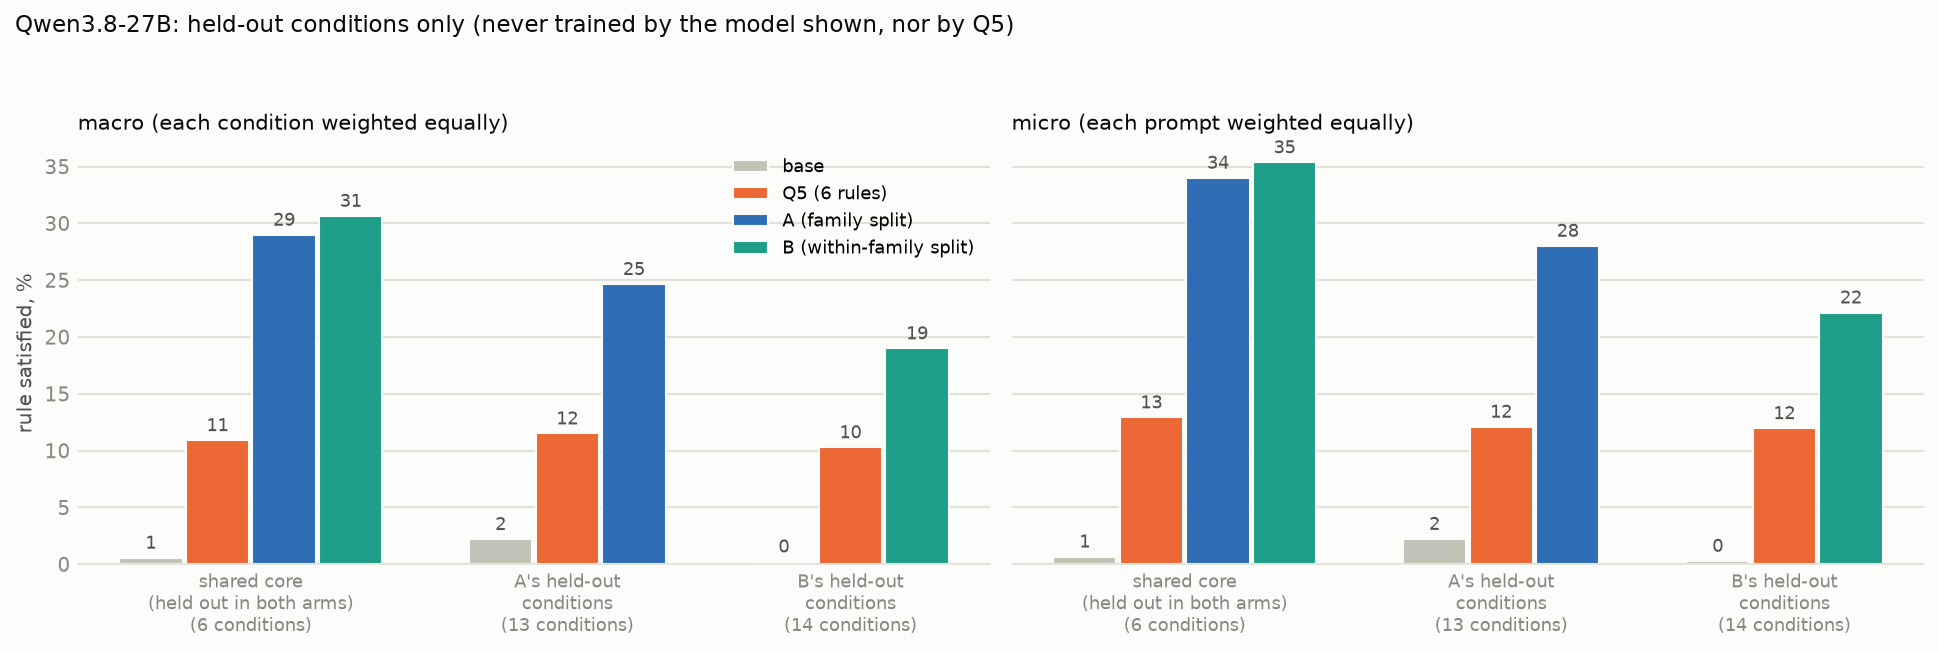
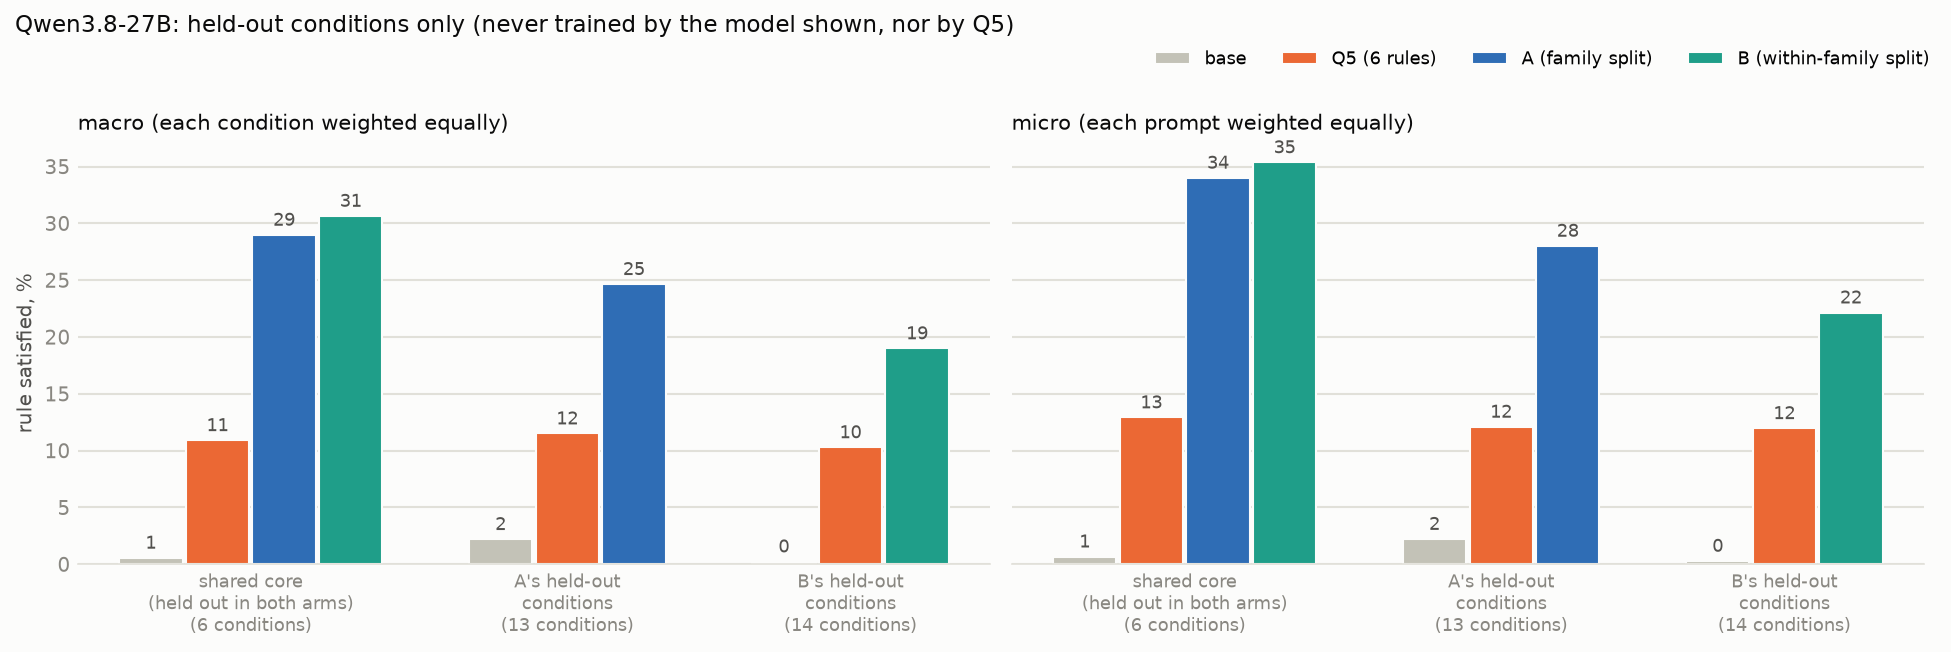
Many-rule SFT replicated on gpt-oss-20b: held-out transfer ~2x Q5; R1 stage row count fix
Claude-Session: https://claude.ai/code/session_01UwHGn3QEFZsPFdtjJMS92Q

diff --git a/scripts/report_many_rules.py b/scripts/report_many_rules.py
@@ -17,13 +17,20 @@ C = {"base": "#c3c2b7", "Q5": "#eb6834", "A": "#2f6db5", "B": "#1f9e89"}
 plt.rcParams.update({"figure.facecolor": SURF, "axes.facecolor": SURF, "axes.edgecolor": GRID, "axes.labelcolor": INK2, "xtick.color": MUTED, "ytick.color": MUTED,
                      "font.size": 9.5, "axes.spines.top": False, "axes.spines.right": False, "savefig.dpi": 150, "savefig.facecolor": SURF})
 def style(ax, axis="y"): (ax.yaxis if axis == "y" else ax.xaxis).grid(True, color=GRID, lw=1); ax.set_axisbelow(True); ax.tick_params(length=0)
+SET = next((x.split("=", 1)[1] for x in sys.argv[1:] if x.startswith("--set=")), "qwen38")
+_G, _GM, _RW, _R1 = REPO / "results/gptoss", REPO / "results/gptoss_many", REPO / "results/redwood_eval", REPO / "results/r1llama"
 Q, R = REPO / "results/qwen38", REPO / "results/qwen38_many"
-EVAL = {"base": Q / "eval/base", "Q5": Q / "eval/Q5", "A": R / "eval/A", "B": R / "eval/B"}
-RWD = {"base": Q / "redwood/base", "Q5": Q / "redwood/Q5", "A": R / "redwood/A", "B": R / "redwood/B"}
+EVAL, RWD, FIG, TITLE = {
+    "qwen38": ({"base": Q / "eval/base", "Q5": Q / "eval/Q5", "A": R / "eval/A", "B": R / "eval/B"},
+               {"base": Q / "redwood/base", "Q5": Q / "redwood/Q5", "A": R / "redwood/A", "B": R / "redwood/B"}, "many", "Qwen3.8-27B"),
+    "gptoss": ({"base": _G / "eval/base", "Q5": _G / "eval/Q5-final", "A": _GM / "eval/A", "B": _GM / "eval/B"},
+               {"base": _RW / "base", "Q5": _RW / "Q5-final", "A": _GM / "redwood/A", "B": _GM / "redwood/B"}, "many_gptoss", "gpt-oss-20b"),
+    "r1": ({m: _R1 / f"eval/{m}" for m in ("base", "Q5", "A", "B")}, {m: _R1 / f"redwood/{m}" for m in ("base", "Q5", "A", "B")}, "many_r1", "R1-Distill-Llama-8B"),
+}[SET]
 MODELS = [m for m in EVAL if (EVAL[m] / "rollouts.jsonl").exists()]
 PREFIX = {"reasonif_multi": "rif", "cotcontrol_multi": "cc", "ifbench": "ifb"}
 Q5_TRAINED = {f"rif:{c}" for c in ("capital", "end_checker", "end_of_sentence", "no_comma", "number_words", "reasoning_language")} | {"cc:end_of_sentence"}  # + its CoTControl twin
-BASE_HIGH = {"rw:section_headers", "ifb:stop_words", "ifb:conjunctions"}
+BASE_HIGH = None  # set below: conditions base already passes on >= 40 % of prompts (no room to show transfer)
 
 
 def scores(m):
@@ -47,7 +54,8 @@ def scores(m):
 S = {m: scores(m) for m in MODELS}
 rate = lambda m, c: 100 * sum(S[m][c]) / len(S[m][c]) if S[m].get(c) else None
 TRAIN = {arm: set(P.split(arm)[0]) for arm in "AB"}; TEST = {arm: set(P.split(arm)[1]) for arm in "AB"}
-EVALUATED = sorted(set.intersection(*[set(S[m]) for m in MODELS]))
+EVALUATED = sorted(c for c in set.intersection(*[set(S[m]) for m in MODELS]) if c in P.CONDS)
+BASE_HIGH = {c for c in EVALUATED if rate("base", c) >= 40}
 # held-out sets used for headline numbers: evaluated, not trained by Q5 either, base not already high
 HELD = {arm: [c for c in EVALUATED if c in TEST[arm] and c not in Q5_TRAINED and c not in BASE_HIGH] for arm in "AB"}
 CORE = [c for c in EVALUATED if c in P.SHARED_CORE]
@@ -77,9 +85,9 @@ if __name__ == "__main__":
             ticks.append((x + (len(ms) - 1) * 0.4, f"{name}\n({len(conds)} conditions)")); x += len(ms) * 0.8 + 1.0
         ax.set_xticks([t for t, _ in ticks]); ax.set_xticklabels([l for _, l in ticks], fontsize=8.5); style(ax); ax.spines["left"].set_visible(False)
         ax.set_title(ttl, loc="left", fontsize=10, color=INK)
-    axes[0].set_ylabel("rule satisfied, %"); axes[0].legend(frameon=False, fontsize=8.5, loc="upper right")
-    fig.suptitle("Qwen3.8-27B: held-out conditions only (never trained by the model shown, nor by Q5)", x=0.01, ha="left", fontsize=11, color=INK)
-    fig.tight_layout(rect=(0, 0, 1, 0.93)); fig.savefig(REPO / "figures/many_headline.png", bbox_inches="tight"); plt.close(fig)
+    axes[0].set_ylabel("rule satisfied, %"); h, l = axes[0].get_legend_handles_labels(); fig.legend(h, l, frameon=False, fontsize=8.5, loc="upper right", ncol=4, bbox_to_anchor=(1.0, 0.95))
+    fig.suptitle(f"{TITLE}: held-out conditions only (never trained by the model shown, nor by Q5)", x=0.01, ha="left", fontsize=11, color=INK)
+    fig.tight_layout(rect=(0, 0, 1, 0.93)); fig.savefig(REPO / f"figures/{FIG}_headline.png", bbox_inches="tight"); plt.close(fig)
     # Fig 3: A against B per condition, coloured by who trained it
     fig, ax = plt.subplots(figsize=(7.2, 6.4))
     kinds = {"trained by A only": ("#2f6db5", "o"), "trained by B only": ("#1f9e89", "s"), "trained by both": ("#52514e", "D"), "held out in both": ("#eb6834", "^")}
@@ -93,7 +101,7 @@ if __name__ == "__main__":
     ax.plot([0, 100], [0, 100], color=GRID, lw=1, zorder=1); ax.set_xlim(-3, 103); ax.set_ylim(-3, 103); ax.set_aspect("equal")
     ax.set_xlabel("arm A, % of prompts"); ax.set_ylabel("arm B, % of prompts"); style(ax); style(ax, "x"); ax.legend(frameon=False, fontsize=8.5, loc="upper left")
     ax.set_title("Each condition: A against B. Off-diagonal points are\nwhere training on the rule made a difference", loc="left", fontsize=10, color=INK)
-    fig.tight_layout(); fig.savefig(REPO / "figures/many_a_vs_b.png", bbox_inches="tight"); plt.close(fig)
+    fig.tight_layout(); fig.savefig(REPO / f"figures/{FIG}_a_vs_b.png", bbox_inches="tight"); plt.close(fig)
     # Fig 4: accuracy and length on Redwood's tasks
     acc, words = {}, {}
     for m in MODELS:
@@ -103,7 +111,7 @@ if __name__ == "__main__":
         ax.bar(range(len(MODELS)), [d[m] for m in MODELS], color=[C[m] for m in MODELS], edgecolor=SURF, width=0.6)
         for i, m in enumerate(MODELS): ax.text(i, d[m] * 1.01 + 0.5, fmt.format(d[m]), ha="center", fontsize=8.5, color=INK2)
         ax.set_xticks(range(len(MODELS))); ax.set_xticklabels([NAME[m] for m in MODELS], fontsize=8.5); style(ax); ax.spines["left"].set_visible(False); ax.set_title(ttl, loc="left", fontsize=10, color=INK)
-    fig.tight_layout(); fig.savefig(REPO / "figures/many_accuracy_length.png", bbox_inches="tight"); plt.close(fig)
+    fig.tight_layout(); fig.savefig(REPO / f"figures/{FIG}_accuracy_length.png", bbox_inches="tight"); plt.close(fig)
     # Fig 2: every evaluated condition, dot plot, grouped by family
     fam_order = ["case", "bans", "inclusion", "position", "layout", "structure", "style", "statistics", "length", "language"]
     conds = sorted(EVALUATED, key=lambda c: (fam_order.index(P.CONDS[c].family), P.CONDS[c].op, c))
@@ -116,4 +124,4 @@ if __name__ == "__main__":
     ax.set_yticks(range(len(conds))); ax.set_yticklabels(lab, fontsize=7.5); ax.invert_yaxis(); ax.set_xlim(-3, 103); style(ax, "x")
     ax.set_xlabel("rule satisfied, % of prompts"); ax.legend(frameon=False, fontsize=8.5, loc="lower right", ncol=4)
     ax.set_title("Every condition; trailing letters mark which arm trained it (A, B, or · for held out)", loc="left", fontsize=10, color=INK)
-    fig.tight_layout(); fig.savefig(REPO / "figures/many_per_condition.png", bbox_inches="tight"); plt.close(fig)
+    fig.tight_layout(); fig.savefig(REPO / f"figures/{FIG}_per_condition.png", bbox_inches="tight"); plt.close(fig)

diff --git a/MANY_RULES_FINDINGS.md b/MANY_RULES_FINDINGS.md
@@ -1,4 +1,4 @@
-# Many-rule SFT on Qwen3.8-27B: findings
+# Many-rule SFT: findings (Qwen3.8-27B, gpt-oss-20b)
 
 *2026-10-01. Plan and design: `MANY_RULES_PLAN.md`. Base Qwen3.8-27B, Q5 (6 rules, 5 per example), and two new arms
 trained on about 32 rules with 7 per example:*
@@ -91,10 +91,50 @@ accuracy lowest, but I have not tested that.
 - Many specific trained rules stay unlearned. The broader training seems to teach "obey a formatting instruction in
   the reasoning" more than any single rule.
 
+## Replication on gpt-oss-20b
+
+![gpt-oss held-out conditions](figures/many_gptoss_headline.png)
+
+*Same registry, splits and 7 conditions per example. The setup otherwise follows the earlier gpt-oss runs:*
+- *about 900 examples per arm (A 919, B 878), the same size as gpt-oss's own Q5 (906);*
+- *attention-only LoRA, one epoch;*
+- *medium reasoning effort, no answer-tag line;*
+- *40 prompts per CoTControl mode and per IFBench rule, 20 per ReasonIF rule;*
+- *Redwood: 100 tasks per instruction with greedy decoding, as in the earlier gpt-oss Redwood runs.*
+
+The result holds on a second model family.
+
+- **Shared core:** base 0 %, Q5 15 %, A 33 %, B 30 % (macro). That is about twice Q5, where Qwen showed about three
+  times.
+- **Each arm's own held-out set:** A reaches 38 % against Q5's 12 %, and B reaches 36 % against Q5's 19 %.
+- **Accuracy on Redwood's tasks:** 84 % for base and 80 % for all three fine-tuned models. B does not lose more than
+  the others here, unlike on Qwen.
+
+**Where gpt-oss differs from Qwen.** The within-family split transfers well on gpt-oss. B never trained a word ban,
+yet it reaches 66–93 % on no "so", no "the" and no "answer", close to A, which trained them. On Qwen, B stayed at
+0–31 % on the same bans. Part of this was already present: gpt-oss's Q5 reaches 54–74 % on two of the bans.
+
+**Held-out transfer that is new on gpt-oss** (each condition held out by the arm named):
+
+| condition | base | Q5 | arm | score |
+|---|---:|---:|---|---:|
+| numbered | 0 % | 0 % | A | 74 % |
+| section headers | 1 % | 0 % | A | 81 % |
+| XML steps | 0 % | 10 % | A | 27 % |
+| questions | 5 % | 6 % | A | 82 % |
+| "Indeed" as first word of each sentence | 0 % | 0 % | B | 18 % |
+
+**The same failures as on Qwen.** The same word-level and letter-level rules stay at 0–10 % for every arm: meow,
+one word per line, no consecutive initials, alternating case and emoji at the end of each sentence.
+
+Per-condition figures: `figures/many_gptoss_per_condition.png` and `figures/many_gptoss_a_vs_b.png`.
+
 ## Caveats
 
 - **Noise.** One seed and 20–29 prompts per condition, so single-condition differences under about 25 points are
   noise. The pooled numbers cover 6–14 conditions.
+- **gpt-oss restates the rule.** It often repeats the instruction in its reasoning. That cannot help it pass a ban, but
+  it can inflate inclusion rules.
 - **Judge.** Second person and questions are judged by gpt-4.1, the same judge that verified the training data. B
   trained against that judge, so B's numbers on those two could partly reflect fitting the judge. A never saw those
   rules.
